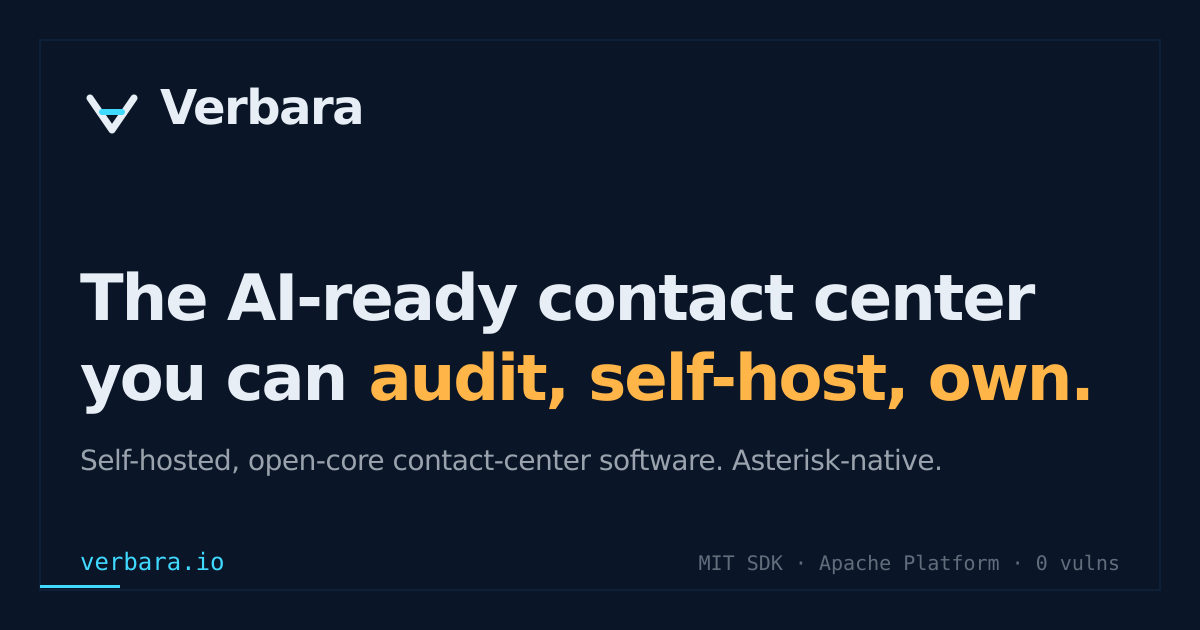
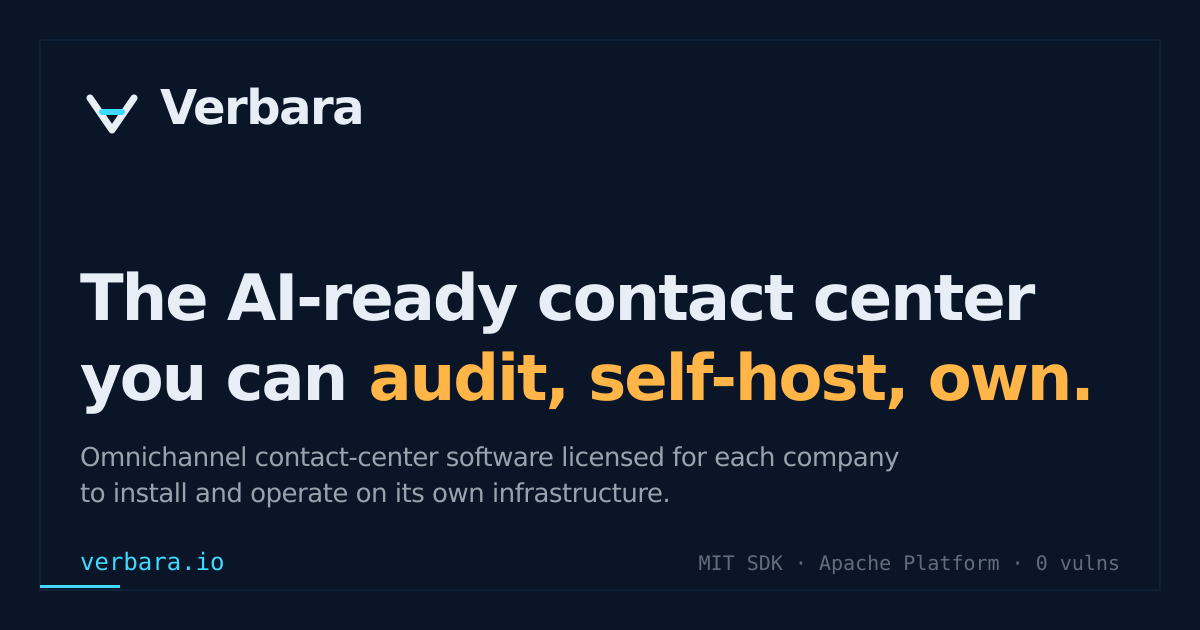
feat(site): state what Verbara is with the owner's canonical sentence
Meta description (feeds og/twitter), footer tagline and the home hero now
open with the canonical sentence in each locale: es-419 verbatim, en-US
and pt-BR as signed 2026-10-26. The site title gains omnichannel/omnicanal.
README, package.json description, og:image:alt and the OG image subtitle
(short form, image regenerated with npm run brand:og) carry it too. The
'installs on your infrastructure / no hosted service' line is dropped
where the sentence already says it.

Changed region(s): [[0.0617, 0.6937, 0.7708, 0.8143]]

diff --git a/src/i18n/messages.ts b/src/i18n/messages.ts
@@ -550,9 +550,9 @@ export interface Messages {
 
 const es_419: Messages = {
   meta: {
-    site_title: 'Verbara — Software open-core honesto para contact center',
+    site_title: 'Verbara — Software open-core honesto para contact center omnicanal',
     site_description:
-      'Verbara es software open-core para contact center: motor auditable, módulos comerciales. Se instala en tu infraestructura. No ofrecemos servicio alojado. Sin tarifas por minuto.',
+      'Verbara es software de contact center omnicanal que se licencia para que cada empresa lo instale y opere en su propia infraestructura. Open-core: motor auditable y módulos comerciales, sin tarifas por minuto.',
   },
   nav: {
     pricing: 'Precios',
@@ -566,7 +566,7 @@ const es_419: Messages = {
     solutions_all: 'Ver todas las soluciones →',
   },
   footer: {
-    tagline: 'Software open-core honesto para contact center.',
+    tagline: 'Verbara es software de contact center omnicanal que se licencia para que cada empresa lo instale y opere en su propia infraestructura.',
     column_resources: 'Recursos',
     resources_contact_sales: 'Contactar ventas',
     column_legal: 'Legal',
@@ -615,7 +615,7 @@ const es_419: Messages = {
     hero_eyebrow: 'MIT SDK · Apache Platform · 0 vulns',
     hero_h1_pre: 'El runtime open-core de comunicaciones que puedes',
     hero_h1_accent: 'auditar, ejecutar, poseer.',
-    hero_sub: 'Open-core, Asterisk-native. Corre tu contact center, voice AI, omnichannel y más sobre un solo stack auditable. En tu data center o en tu nube: se instala en tu infraestructura.',
+    hero_sub: 'Verbara es software de contact center omnicanal que se licencia para que cada empresa lo instale y opere en su propia infraestructura. Open-core y Asterisk-native: contact center, voice AI, omnichannel y más sobre un solo stack auditable, en tu data center o en tu nube.',
     hero_cta_primary: 'Corre el stack →',
     hero_cta_secondary: 'Ver soluciones →',
     hero_cta_dev_license: 'o consigue una licencia developer — gratis, firmada, válida 30 días →',
@@ -1086,9 +1086,9 @@ const es_419: Messages = {
 
 const en_US: Messages = {
   meta: {
-    site_title: 'Verbara — Open-core honest contact-center software',
+    site_title: 'Verbara — Open-core honest omnichannel contact-center software',
     site_description:
-      'Verbara is open-core contact-center software: auditable engine, commercial overlays. It installs on your infrastructure. We do not offer a hosted service. No per-minute fees.',
+      'Verbara is omnichannel contact-center software, licensed for each company to install and operate on its own infrastructure. Open-core: auditable engine and commercial overlays, no per-minute fees.',
   },
   nav: {
     pricing: 'Pricing',
@@ -1102,7 +1102,7 @@ const en_US: Messages = {
     solutions_all: 'See all solutions →',
   },
   footer: {
-    tagline: 'Open-core honest contact-center software.',
+    tagline: 'Verbara is omnichannel contact-center software, licensed for each company to install and operate on its own infrastructure.',
     column_resources: 'Resources',
     resources_contact_sales: 'Contact sales',
     column_legal: 'Legal',
@@ -1151,7 +1151,7 @@ const en_US: Messages = {
     hero_eyebrow: 'MIT SDK · Apache Platform · 0 vulns',
     hero_h1_pre: 'The open-core comms runtime you can',
     hero_h1_accent: 'audit, self-host, own.',
-    hero_sub: 'Open-core, Asterisk-native. Run your contact center, voice AI, omnichannel, and more on one auditable stack. In your data center or your cloud: it installs on your infrastructure.',
+    hero_sub: 'Verbara is omnichannel contact-center software, licensed for each company to install and operate on its own infrastructure. Open-core and Asterisk-native: contact center, voice AI, omnichannel, and more on one auditable stack, in your data center or your cloud.',
     hero_cta_primary: 'Run the stack →',
     hero_cta_secondary: 'See solutions →',
     hero_cta_dev_license: 'or get a developer license — free, signed, valid 30 days →',
@@ -1622,9 +1622,9 @@ const en_US: Messages = {
 
 const pt_BR: Messages = {
   meta: {
-    site_title: 'Verbara — Software open-core honesto para contact center',
+    site_title: 'Verbara — Software open-core honesto para contact center omnichannel',
     site_description:
-      'Verbara é software open-core para contact center: motor auditável, módulos comerciais. É instalado na sua infraestrutura. Não oferecemos serviço hospedado. Sem tarifas por minuto.',
+      'A Verbara é um software de contact center omnichannel, licenciado para que cada empresa o instale e opere em sua própria infraestrutura. Open-core: motor auditável e módulos comerciais, sem tarifas por minuto.',
   },
   nav: {
     pricing: 'Preços',
@@ -1638,7 +1638,7 @@ const pt_BR: Messages = {
     solutions_all: 'Ver todas as soluções →',
   },
   footer: {
-    tagline: 'Software open-core honesto para contact center.',
+    tagline: 'A Verbara é um software de contact center omnichannel, licenciado para que cada empresa o instale e opere em sua própria infraestrutura.',
     column_resources: 'Recursos',
     resources_contact_sales: 'Contatar vendas',
     column_legal: 'Legal',
@@ -1687,7 +1687,7 @@ const pt_BR: Messages = {
     hero_eyebrow: 'MIT SDK · Apache Platform · 0 vulns',
     hero_h1_pre: 'O runtime open-core de comunicações que você pode',
     hero_h1_accent: 'auditar, executar, possuir.',
-    hero_sub: 'Open-core, nativo no Asterisk. Rode seu contact center, voice AI, omnichannel e mais sobre um único stack auditável. No seu data center ou na sua nuvem: instalado na sua infraestrutura.',
+    hero_sub: 'A Verbara é um software de contact center omnichannel, licenciado para que cada empresa o instale e opere em sua própria infraestrutura. Open-core e nativo no Asterisk: contact center, voice AI, omnichannel e mais sobre um único stack auditável, no seu data center ou na sua nuvem.',
     hero_cta_primary: 'Rode o stack →',
     hero_cta_secondary: 'Ver soluções →',
     hero_cta_dev_license: 'ou pegue uma licença developer — grátis, assinada, válida 30 dias →',

diff --git a/README.md b/README.md
@@ -1,6 +1,6 @@
 # Verbara Website
 
-> Marketing site for **Verbara**, self-hosted open-core contact-center software — `verbara.io`.
+> Marketing site for **Verbara** — `verbara.io`. Verbara is omnichannel contact-center software, licensed for each company to install and operate on its own infrastructure.
 
 Public-facing static site built with [Astro 6](https://astro.build) on the [Tailwind v4](https://tailwindcss.com) "Signal" design system, deployed as a [Cloudflare Worker](https://workers.cloudflare.com) with the Static Assets pattern, with form submissions handled by a bridged Pages-Function endpoint backed by [D1 SQLite](https://developers.cloudflare.com/d1/) (audit log) + [KV](https://developers.cloudflare.com/kv/) (rate-limit) and outbound transactional email via [Resend](https://resend.com).
 
